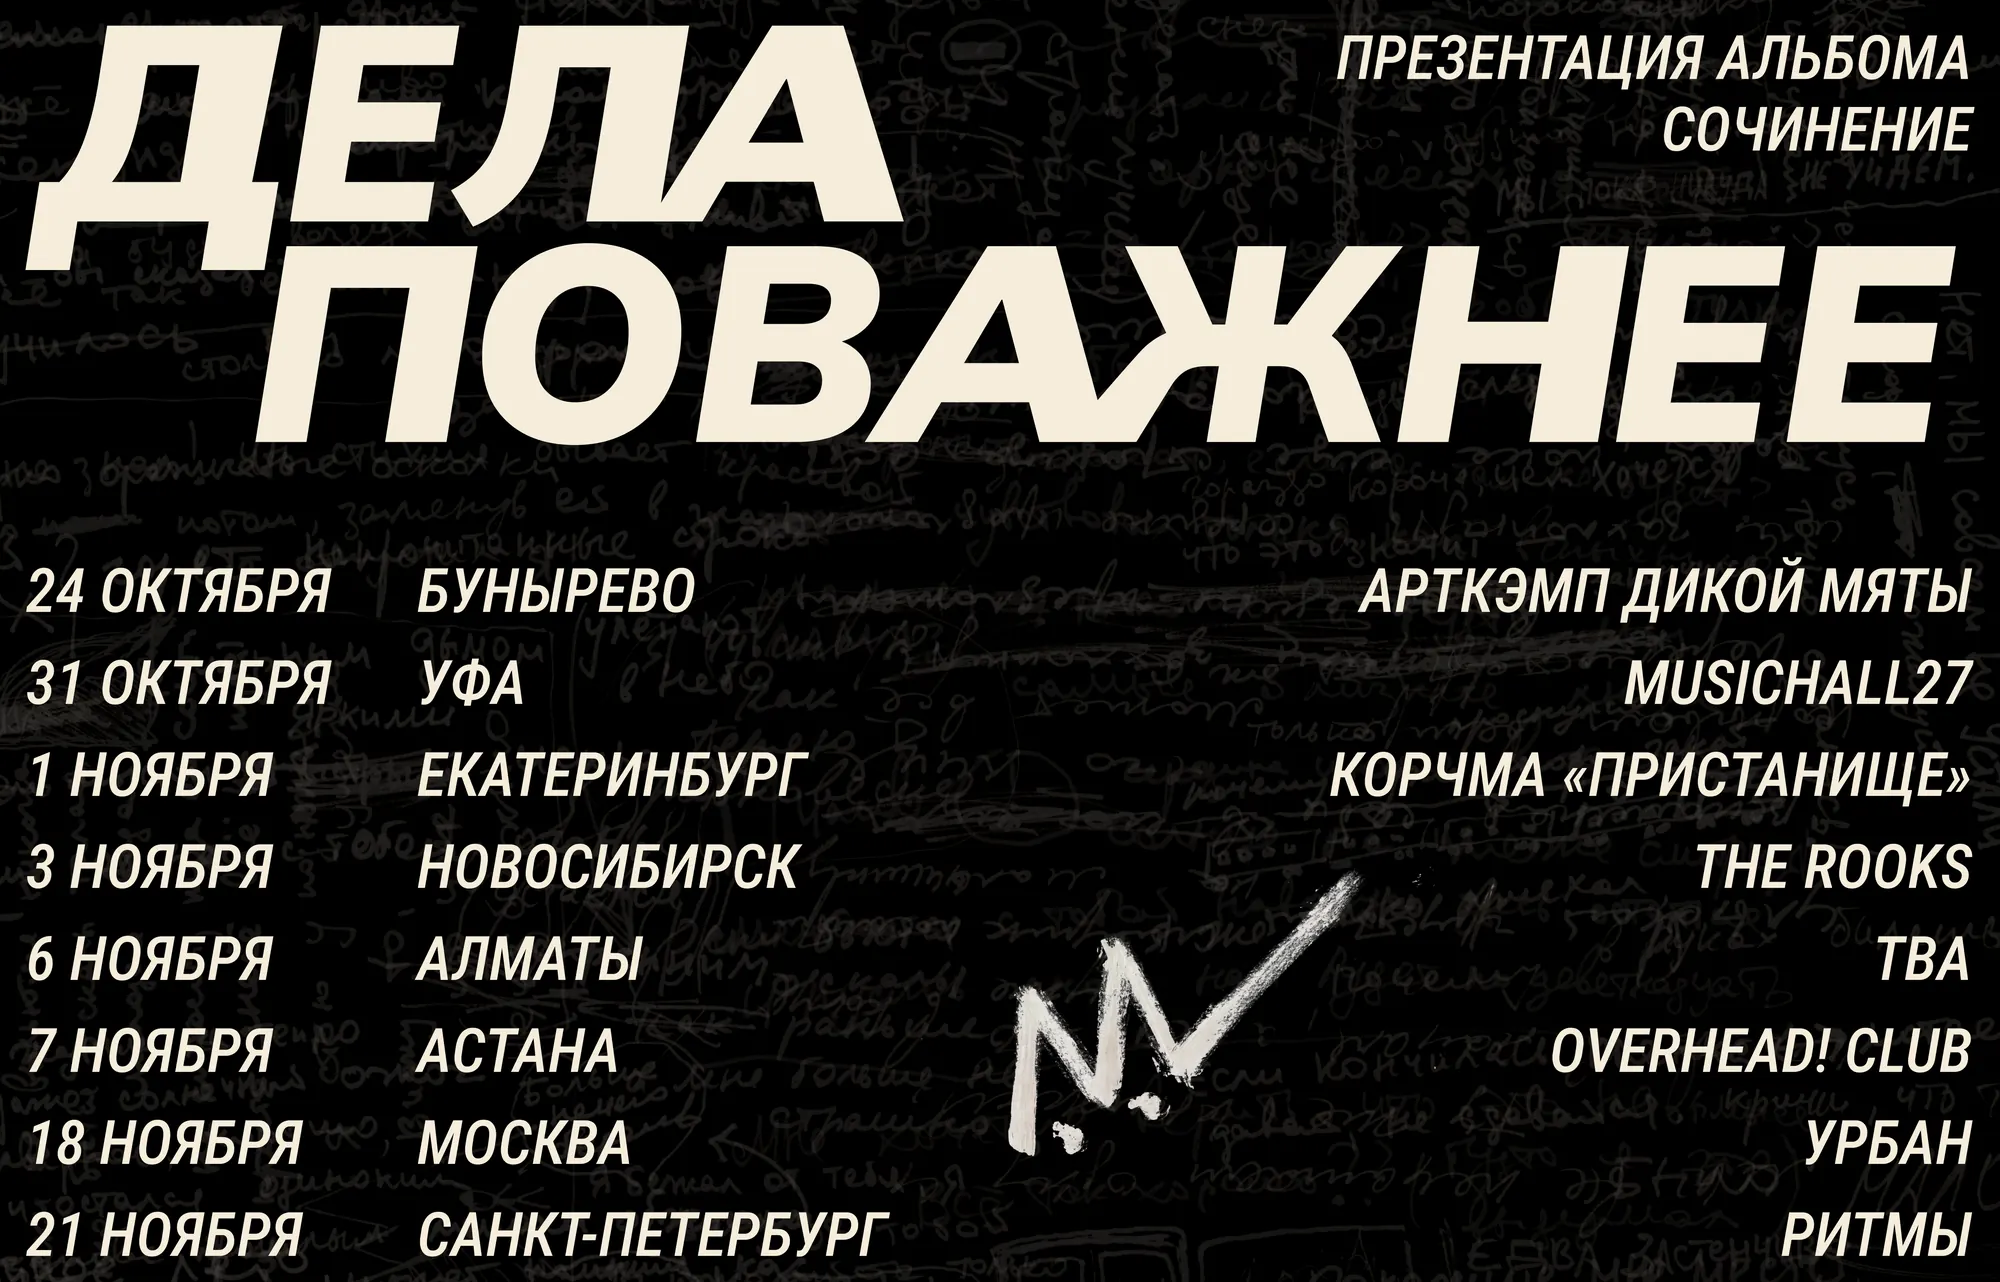
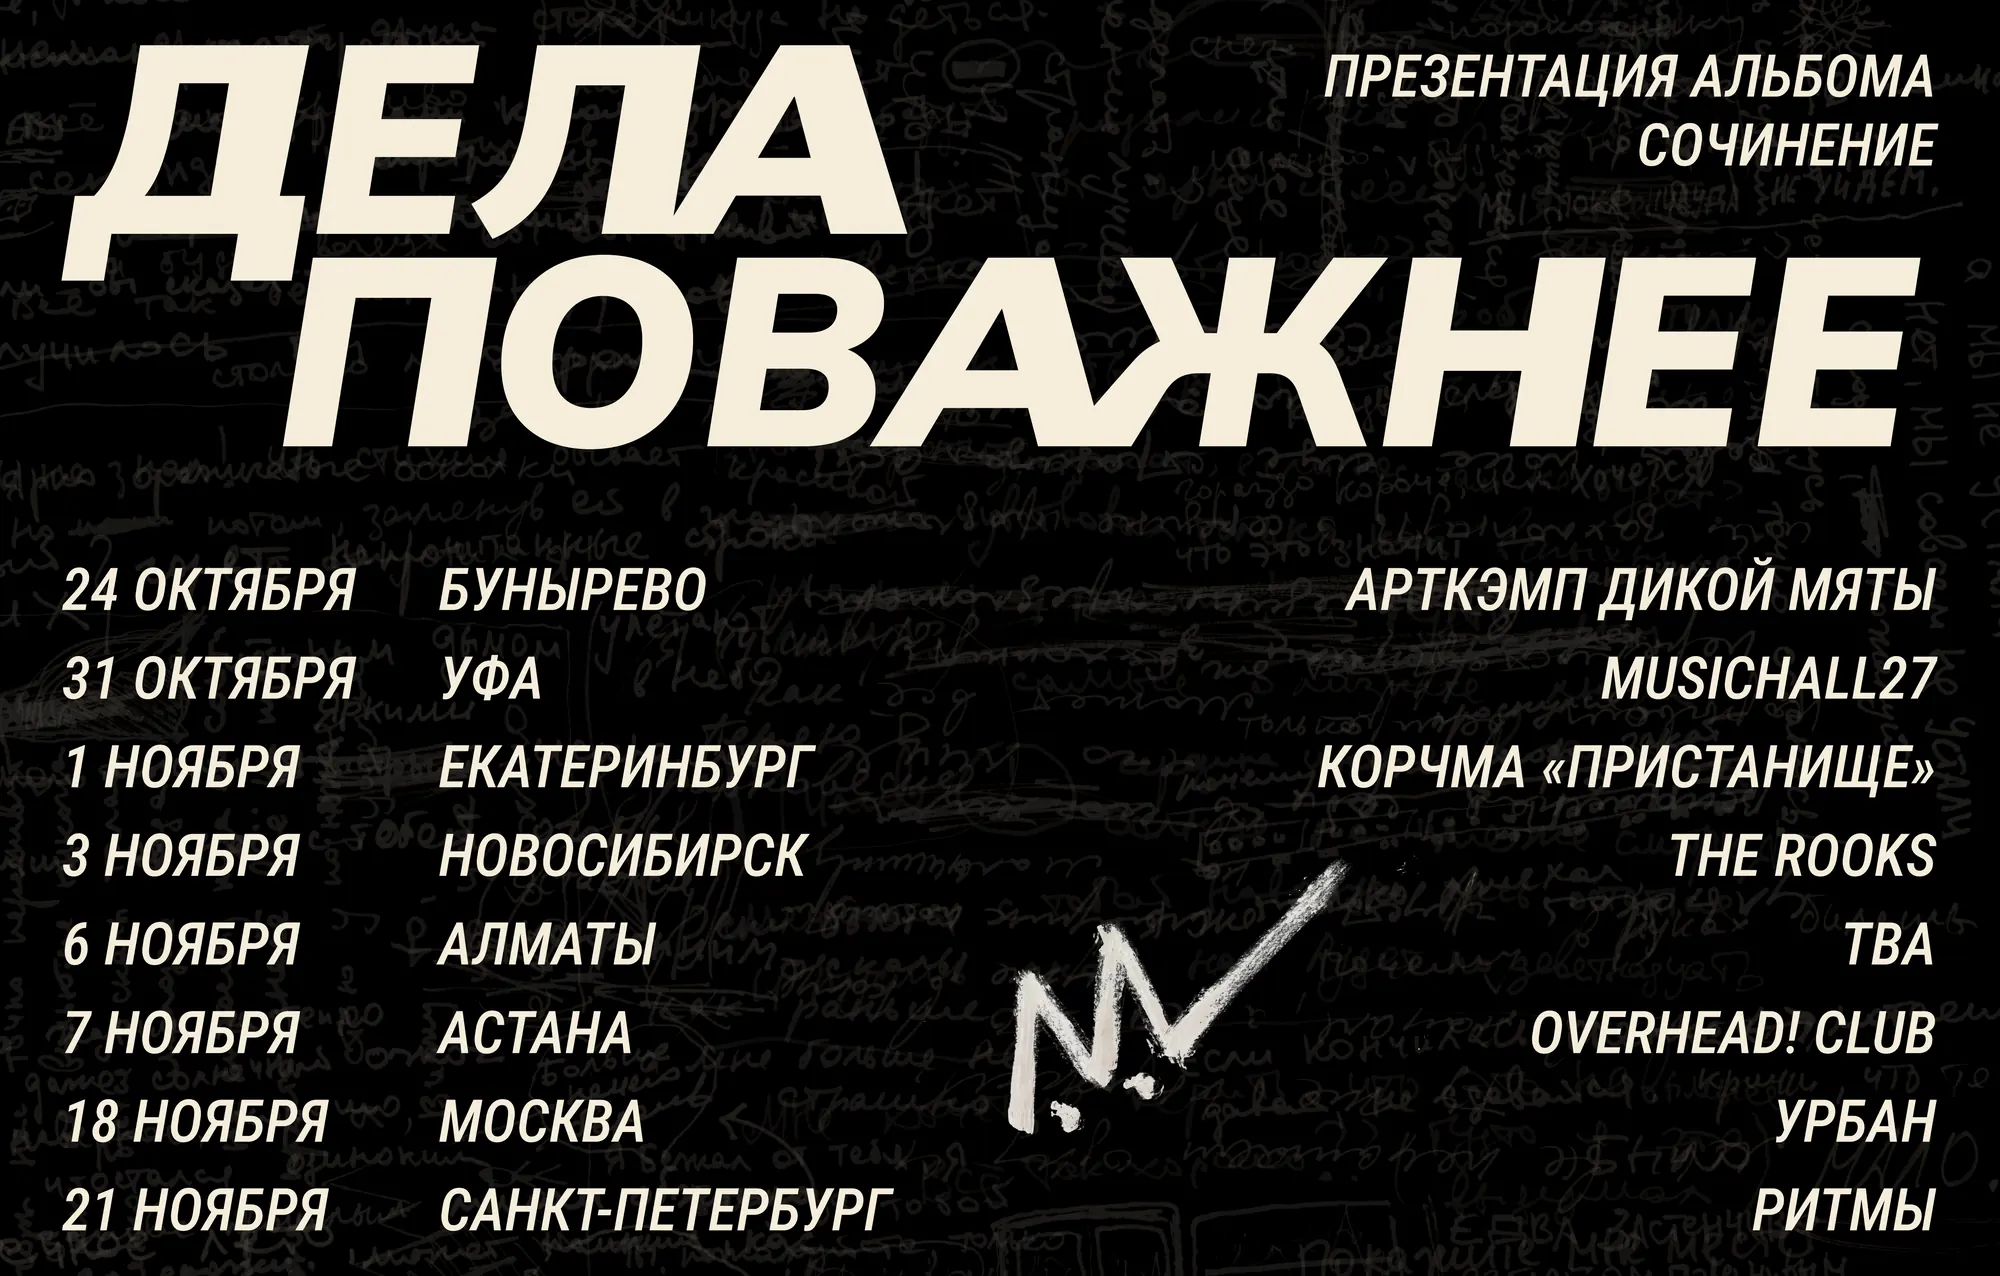
tickets button by the dates, mobile album layout, faster deploy
- concerts (desktop): tighter poster crop with faded edges, the «Билеты»
  button beside the date list with a pencilled brace; stacked under 1000px
- album (phones): content centred in the visible screen, bigger cover,
  the «Концерты» cue moved to the bottom
- Dockerfile: user/db dir created before COPY, no chown -R duplicate layer
- deploy: layer cache in GHCR (:buildcache), pull only the app image,
  10 min timeout + ssh keepalive, prune -af

diff --git a/templates/home.html b/templates/home.html
@@ -117,21 +117,20 @@
       .cue .arr { animation: bob 1.6s ease-in-out infinite; font-style: normal; }
       @keyframes bob { 0%,100% { transform: translateY(0); } 50% { transform: translateY(4px); } }
 
-      /* ---- Single ---- */
+      /* ---- Release (the album) ---- */
       .release__grid { display: grid; grid-template-columns: minmax(0, 0.9fr) minmax(0, 1.1fr); gap: clamp(28px, 5vw, 64px); align-items: center; }
       /* One section = one screen here too: the cover gives way to the height.
          What's left under it in the column is the desktop cue's corner. */
       .release__cover-wrap { width: min(100%, calc(100svh - 344px)); justify-self: center; align-self: start; position: relative; transform: rotate(-2.5deg); }
       /* the sleeve is the same black as the page — a hairline keeps its edge */
       .release__cover { width: 100%; height: auto; aspect-ratio: 1; object-fit: cover; display: block; background: var(--black); outline: 1px solid var(--rule); }
-      /* The wrap fills the one-screen section, so the desktop cue lands in the
-         SAME on-screen spot as the hero's cue: bottom-left of the screen. Mobile
-         uses a static cue in the release-date row instead. */
+      /* The wrap fills the one-screen section, so the cue to the next section
+         lands where the hero's cue is: bottom-left of the screen. */
       .release .wrap { flex: 1 1 auto; position: relative; }
-      .cue--desktop { bottom: 0; left: clamp(14px, 2vw, 26px); }
-      .cue--flow { position: static; } /* mobile row cue: in the flow, same size as the hero's */
-      .cue--mobile { display: none; }
+      .release__cue { bottom: 0; left: clamp(14px, 2vw, 26px); }
+      #single { position: absolute; top: 0; } /* old anchor: lands exactly where #release does */
       .release-row { display: flex; align-items: stretch; flex-wrap: wrap; gap: 10px; margin-bottom: 18px; }
+      .release-row:empty { display: none; } /* nothing in it until a release-date badge comes back */
       .release__cta { display: flex; flex-wrap: wrap; gap: 12px; }
       .release__title + .release__cta { margin-top: clamp(20px, min(3.5vw, 4vh), 34px); } /* no lead above it */
       .release__kicker { display: block; font-family: "Roboto Condensed", sans-serif; font-weight: 500; letter-spacing: 0.03em; line-height: 1.1; font-size: clamp(18px, 2.2vw, 28px); color: var(--pencil); margin-bottom: 0.45em; }
@@ -147,12 +146,40 @@
            above the torn faces (the hero already shows the band); phones get the
            whole vertical sheet. One button leads to /tickets. ---- */
       .concerts .wrap { flex: 1 1 auto; min-height: 0; display: flex; flex-direction: column; }
-      .tour-row { display: flex; align-items: flex-end; gap: clamp(20px, 3.5vw, 44px); margin-block: auto; }
-      /* the poster gives way to the height, like the album cover: 2000×1316 */
-      .tour { display: block; flex: 0 1 auto; width: min(100%, calc((100svh - 262px) * 1.5198)); }
-      .tour img { display: block; width: 100%; height: auto; }
-      .tour__cta { flex: 0 0 auto; padding-bottom: 4px; }
-      .tour__cta .btn { min-width: 11em; font-size: clamp(17px, 1.9vw, 20px); padding: 18px 30px; }
+      .concerts .section__eyebrow { margin-bottom: 4px; } /* the poster brings its own top margin */
+      .tour-row { display: flex; align-items: stretch; gap: clamp(14px, 1.8vw, 24px); margin-block: auto; }
+      /* Desktop poster (tour-d.webp, 2000×1276): the sheet's type with a margin
+         of its handwriting around it — 3.08% left/right, 3.5% top/bottom. The
+         margin hangs outside .tour and fades out, so the poster has no edge on
+         the page and its type starts on the page's own left line. .tour is the
+         type block; it gives way to the height like the album cover
+         (width = image height × 1.4764). */
+      .tour { display: block; flex: 0 1 auto; min-width: 0; width: min(100%, calc((100svh - 200px) * 1.4764)); }
+      .tour picture { display: block; margin-inline: -3.08%; }
+      .tour img {
+        display: block; width: 100%; height: auto;
+        -webkit-mask-image: linear-gradient(to right, transparent, #000 3%, #000 97%, transparent), linear-gradient(to bottom, transparent, #000 3.4%, #000 96.6%, transparent);
+        -webkit-mask-composite: source-in;
+        mask-image: linear-gradient(to right, transparent, #000 3%, #000 97%, transparent), linear-gradient(to bottom, transparent, #000 3.4%, #000 96.6%, transparent);
+        mask-composite: intersect;
+      }
+      /* The button belongs to the list of dates, so it stands beside the list
+         (rows 44.5%–96.5% of the poster's height), and a pencilled brace gathers
+         the eight rows into it — the way the drafts on the cover annotate
+         themselves. */
+      .tour__cta { flex: 0 0 auto; display: grid; grid-template-rows: 44.5fr 52fr 3.5fr; }
+      .tour__aside { grid-row: 2; position: relative; display: flex; align-items: center; padding-left: 52px; }
+      .tour__brace { position: absolute; left: 0; top: 0; width: 30px; height: 100%; overflow: visible; }
+      .tour__brace path { fill: none; stroke: var(--chalk); stroke-width: 1.3px; stroke-linecap: round; stroke-linejoin: round; opacity: 0.6; }
+      .tour__cta .btn { min-width: 9.5em; }
+      /* too narrow for poster + button side by side: the button goes under the list */
+      @media (max-width: 1000px) {
+        .tour-row { flex-direction: column; align-items: flex-start; gap: 16px; }
+        .tour { width: min(100%, calc((100svh - 264px) * 1.4764)); }
+        .tour__cta { display: block; }
+        .tour__aside { padding-left: 0; }
+        .tour__brace { display: none; }
+      }
 
       /* ---- Listen + socials ---- */
       .listen { min-height: 0; } /* footer: ends where its content ends, not a full screen */
@@ -188,27 +215,37 @@
            the guys end, so the four of them render as large as possible. */
         .hero__photo::after { background: url("/static/home/band-mobile.jpg") center / contain no-repeat; }
 
-        .release__grid { grid-template-columns: 1fr; gap: 14px; }
-        /* Phones: the whole release — label, cover, cue, title, button — is one
-           screen on every model. From the landed label down, everything but the
-           cover has a fixed size; the cover takes what's left, up to 300px, so
-           the button stays above Safari's bar (svh) and inside the section
-           (lvh − peek). Release mode (no lead text): with the pre-save lead back,
-           take ~70px more off both (~90px at ≤380px wide). */
-        .release .section__eyebrow { margin-bottom: 12px; }
-        .release__cover-wrap { width: clamp(72px, min(96svh - 316px, 96lvh - 360px), 300px); }
-        .cue--desktop { display: none; }
-        .cue--mobile { display: inline-flex; }
-        .release-row { margin-bottom: 10px; }
+        /* Phones: each sheet is one screen on every model, and its content is
+           composed inside the part of the screen you can actually see. The wrap
+           is that part: from the landed label down to just above Safari's bar
+           (svh), never past the section's own bottom (lvh − peek). The label
+           stays on top; what's below it is centred in the rest, so spare height
+           is shared out above and below instead of piling up at the bottom. */
+        .release, .concerts { padding-bottom: 20px; }
+        .release .wrap, .concerts .wrap {
+          flex: 0 0 auto; display: flex; flex-direction: column;
+          min-height: min(100svh - var(--nav-h) - var(--label-gap) - 14px, 100lvh - var(--peek) - var(--nav-h) - var(--label-gap) - 20px);
+        }
+
+        /* Album: cover + title + button in the middle, the cue to the concerts
+           at the bottom of the visible screen (where the hero has its cue).
+           Everything but the cover has a fixed size (~260px with the label and
+           the cue); the cover takes the rest, up to the column's width. With the
+           pre-save lead back, take ~70px more off both (~90px at ≤380px wide). */
+        .release .section__eyebrow { margin-bottom: 0; }
+        .release__grid { grid-template-columns: 1fr; gap: 18px; margin-block: auto; padding-block: 14px 18px; }
+        .release__cover-wrap { width: clamp(72px, min(95svh - 338px, 95lvh - 382px), 92%); }
+        .release__cue { position: static; align-self: flex-start; }
         .release__lead { max-width: none; font-size: 15px; line-height: 1.4; margin: 12px 0 16px; }
 
-        /* the whole vertical poster (1170×1358), then the button, in one screen */
+        /* Concerts: the whole vertical poster (tour-m.webp, 1170×1358, with the
+           faces — it keeps its edges), then the button, full width */
         .concerts .section__eyebrow { margin-bottom: 12px; flex-wrap: wrap; row-gap: 0; }
-        /* top-aligned: centring in an lvh-tall section would push the button under Safari's bar */
-        .tour-row { flex-direction: column; align-items: stretch; gap: 14px; margin-block: 0; }
-        .tour { align-self: center; width: min(100%, calc(min(100svh - 228px, 100lvh - 262px) * 0.8615)); }
-        .tour__cta { padding: 0; }
-        .tour__cta .btn { width: 100%; padding: 15px 28px; }
+        .tour-row { align-items: stretch; gap: 14px; }
+        .tour { align-self: center; width: min(100%, calc(min(100svh - 218px, 100lvh - 262px) * 0.8615)); }
+        .tour picture { margin-inline: 0; }
+        .tour img { -webkit-mask-image: none; mask-image: none; }
+        .tour__cta .btn { width: 100%; }
 
         .listen__grid { grid-template-columns: 1fr; gap: 32px; }
       }
@@ -272,7 +309,7 @@
             <img class="release__cover" src="/static/home/sochinenie.webp" width="852" height="852" data-i18n-attr="alt:release_cover_alt" alt="Обложка альбома «Сочинение»: знак группы белой краской на чёрном листе, исписанном черновиками">
           </div>
           <div class="release__text">
-            <div class="release-row"><!-- Restore before the next single: release-date badge. (i18n key "release_date" is kept in the dictionary for restoration.) <span class="release-date" data-i18n="release_date">Релиз · 17 июля 2026</span> --><a class="cue cue--flow cue--mobile" href="#concerts" data-i18n-html="cue_concerts">Концерты <span class="arr">↓</span></a></div>
+            <div class="release-row"><!-- Restore before the next single: release-date badge. (i18n key "release_date" is kept in the dictionary for restoration.) <span class="release-date" data-i18n="release_date">Релиз · 17 июля 2026</span> --></div>
             <h2 class="display release__title" data-i18n-html="release_title"><span class="release__kicker">Новый альбом</span><span class="release__name">Сочинение</span></h2>
             <!-- Restore before the next release: pre-save lead copy. (i18n key
                  "release_lead" is kept in the dictionary for restoration.)
@@ -283,8 +320,8 @@
             </div>
           </div>
         </div>
-        <!-- desktop: same on-screen spot as the hero's cue (bottom-left of the screen) -->
-        <a class="cue cue--desktop" href="#concerts" data-i18n-html="cue_concerts">Концерты <span class="arr">↓</span></a>
+        <!-- the way on to the concerts: bottom-left of the screen, like the hero's cue -->
+        <a class="cue release__cue" href="#concerts" data-i18n-html="cue_concerts">Концерты <span class="arr">↓</span></a>
       </div>
     </section>
 
@@ -295,11 +332,14 @@
           <a class="tour" href="/tickets">
             <picture>
               <source media="(max-width: 760px)" srcset="/static/home/tour-m.webp" width="1170" height="1358">
-              <img src="/static/home/tour-d.webp" width="2000" height="1316" data-i18n-attr="alt:tour_alt" alt="Афиша тура «Презентация альбома Сочинение»: 24 октября — Бунырево, арткэмп «Дикой мяты»; 31 октября — Уфа, MusicHall27; 1 ноября — Екатеринбург, корчма «Пристанище»; 3 ноября — Новосибирск, The Rooks; 6 ноября — Алматы; 7 ноября — Астана, Overhead! Club; 18 ноября — Москва, Урбан; 21 ноября — Санкт-Петербург, Ритмы">
+              <img src="/static/home/tour-d.webp" width="2000" height="1276" data-i18n-attr="alt:tour_alt" alt="Афиша тура «Презентация альбома Сочинение»: 24 октября — Бунырево, арткэмп «Дикой мяты»; 31 октября — Уфа, MusicHall27; 1 ноября — Екатеринбург, корчма «Пристанище»; 3 ноября — Новосибирск, The Rooks; 6 ноября — Алматы; 7 ноября — Астана, Overhead! Club; 18 ноября — Москва, Урбан; 21 ноября — Санкт-Петербург, Ритмы">
             </picture>
           </a>
           <div class="tour__cta">
-            <a class="btn btn--fill" href="/tickets" data-i18n="btn_tickets">Билеты</a>
+            <div class="tour__aside">
+              <svg class="tour__brace" viewBox="0 0 40 400" preserveAspectRatio="none" aria-hidden="true" focusable="false"><path vector-effect="non-scaling-stroke" d="M2.7 1.7L7.0 2.3L10.1 4.4L13.8 8.0L15.8 9.4L17.1 13.8L17.8 18.6L18.5 27.7L19.4 35.0L19.3 55.0L18.8 78.4L19.3 101.1L19.4 120.7L19.1 144.5L19.0 165.0L19.2 173.0L20.5 182.3L21.3 186.1L23.6 191.5L26.0 195.8L28.7 196.9L32.6 198.7L36.6 199.4L32.8 199.6L28.2 203.2L25.4 205.4L23.1 208.2L21.8 212.2L19.9 217.9L19.4 225.0L18.8 234.8L18.8 256.2L19.4 276.7L18.5 299.1L19.3 322.4L18.7 343.5L18.6 365.9L18.3 374.3L18.6 381.6L17.4 386.9L15.0 389.1L13.8 393.9L10.5 396.7L7.3 397.6L2.8 396.0 M3.9 2.6L7.6 4.6L10.9 4.8L14.7 5.7L16.5 10.6L17.5 14.1L19.3 19.7L20.0 25.3L19.6 32.8L19.9 57.4L20.0 78.9L19.8 100.8L19.5 121.3L20.1 144.7L19.8 164.7L19.9 173.3L20.6 182.1L21.8 188.0L24.4 189.8L26.4 194.7L29.1 197.0L33.8 197.7L38.0 198.8L33.5 202.3L29.3 201.2L26.0 205.4L23.5 207.4L22.2 214.6L20.8 218.5L20.3 224.4L20.0 233.0L20.0 257.5L19.4 278.2L20.0 298.9L19.6 323.6L20.4 342.8L20.1 367.4L19.4 374.0L18.6 379.7L18.2 385.8L16.7 388.4L14.1 394.2L11.6 395.1L7.9 398.1L4.0 395.5"/></svg>
+              <a class="btn btn--fill" href="/tickets" data-i18n="btn_tickets">Билеты</a>
+            </div>
           </div>
         </div>
       </div>
